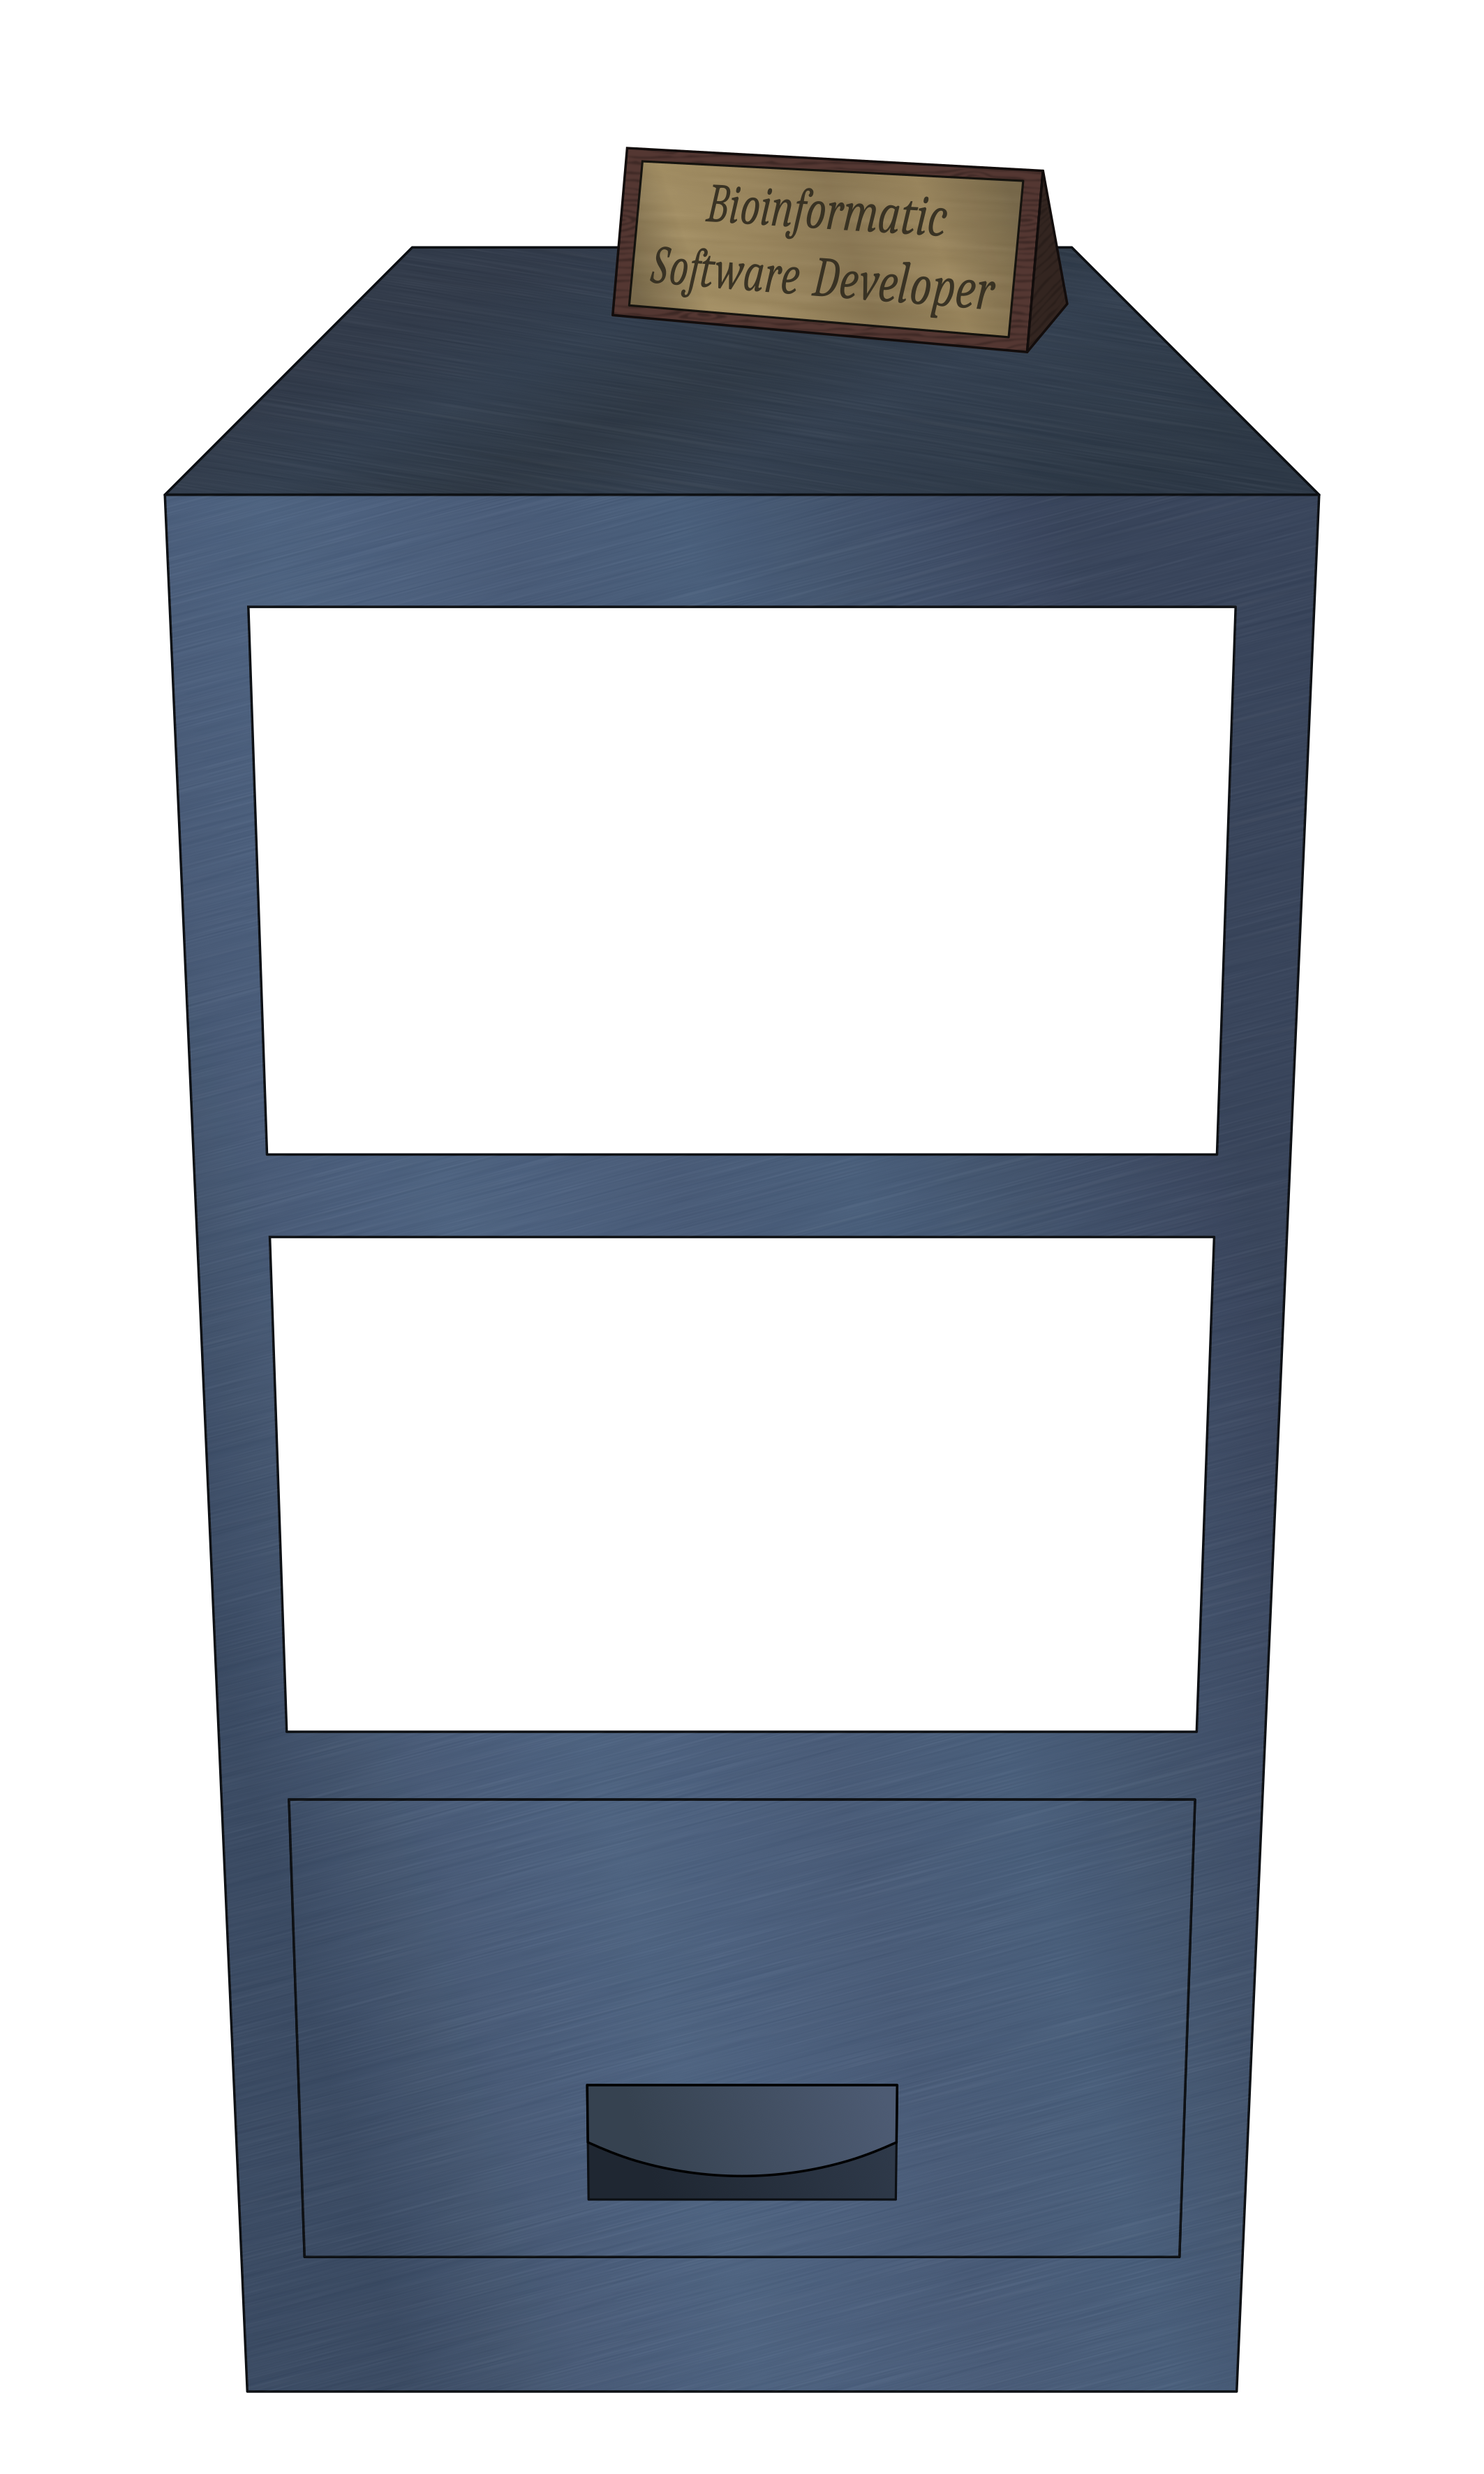
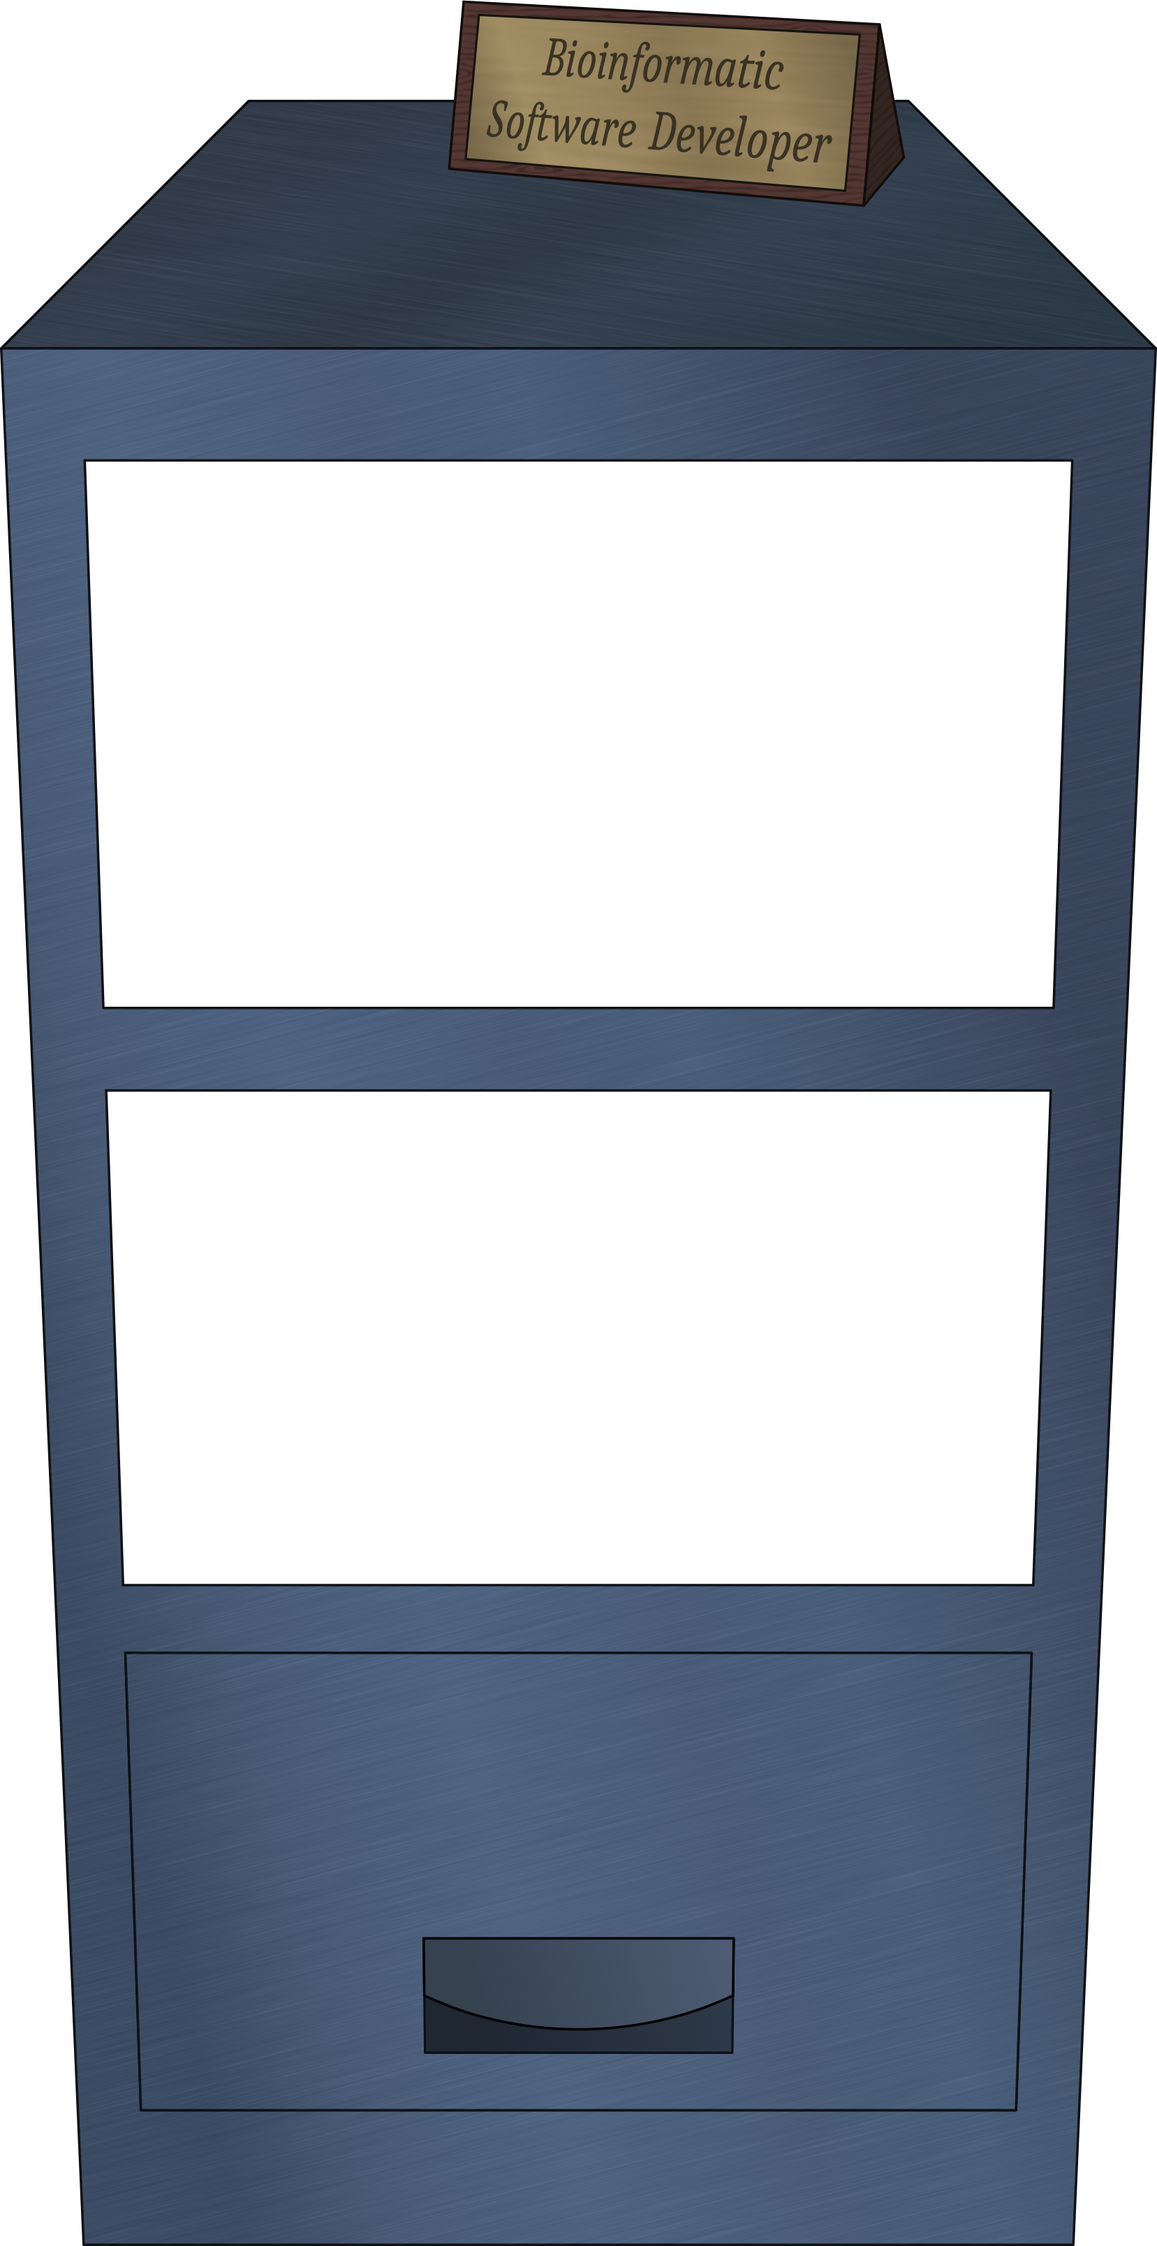
style: complete basic layout style: add responsive behavior
asset: refine image asset

diff --git a/css/styles.css b/css/styles.css
@@ -73,31 +73,32 @@ body {
 /* BACKGROUND IMAGES */
 
 html {
-    width: 100%;
+    width: 100vw;
+    overflow-x: hidden;
 }
 
 body {
     background:
-        radial-gradient(transparent, 60%, #130D0C77 80%, #130D0C99 100%) no-repeat,
+        radial-gradient(ellipse 60% 50%, transparent 65%, #130D0C55 95%, #130D0C77 100%) no-repeat,
         url(../src/background_large.png) no-repeat center / cover;
         background-color: #9C655D;
     width: 100%;
     min-height: 100vh;
     display: block flow-root;
+    position: relative;
 }
 
-.section-home {
+.section-home-container {
     background: url(../src/certificate_large.png) no-repeat center / contain;
     aspect-ratio: 1539/1034;
-    min-width: 25rem;
-    max-width: 95%;
-    width: 50vw;
+    width: 40vw;
+    max-width: 80rem;
     position: relative;
     margin: 10vh auto 0;
     filter: drop-shadow(0 0 5px #130D0C);
 }
 
-.section-home__wrapper {
+.section-home {
     position: absolute;
     inset: 15% 10%;
     text-align: center;
@@ -105,10 +106,10 @@ body {
 
 .filing-cabinet {
     position: relative;
-    aspect-ratio: 2126/3543;
-    width: 70vw;
-    min-width: 30rem;
-    top: -10vh;
+    aspect-ratio: 1657/3217;
+    max-width: 80rem;
+    width: 40vw;
+    top: -2vh;
     margin: 0 auto;
 }
 
@@ -123,7 +124,6 @@ body {
 .filing-cabinet__back {
     background-image: url(../src/fcabinet_slots_large.png);
 }
-
 
 .filing-cabinet__front {
     background-image: url(../src/fcabinet_structure_large.png);
@@ -145,14 +145,85 @@ body {
 
 /* UI ELEMENTS */
 
-.options {
-    background-image: url(../src/sheet_large.png);
-    height: 200px;
+.nav-container {
+    background: url(../src/postit_large.png) no-repeat center / contain;
+    aspect-ratio: 1021/1109;
+    height: 45vh;
+    position: fixed;
+    top: -5vh;
+    left: 2vw;
+    transform: rotate(4deg);
+    z-index: 10;
+    filter: drop-shadow(0 0 5px #130D0C);
 }
 
-.nav {
-    background-image: url(../src/postit_large.png);
-    height: 100px;
+.options-container {
+    background: url(../src/sheet_large.png) no-repeat center / contain;
+    display: block flow-root;
+    aspect-ratio: 1106/655;
+    height: 25vh;
+    position: fixed;
+    bottom: -2vh;
+    left: 2vw;
+    transform: rotate(-2deg);
+    z-index: 10;
+    filter: drop-shadow(0 0 5px #130D0C);
+}
+
+.viewport-overlay-gradient {
+    background: linear-gradient(#130D0C88, 2%, transparent 10% 90%, 98%, #130D0C88);
+    position: fixed;
+    inset: 0 0 0 0;
+}
+
+.footer-overlay-gradient {
+    background: linear-gradient(transparent, #130D0C 70%);
+    height: 70vh;
+    max-height: 30%;
+    width: 100vw;
+    position: absolute;
+    bottom: 0;
+}
+
+/* STRUCTURE MEDIA QUERIES */
+
+@media (orientation: portrait) and (max-width: 1200px) {
+    .section-home-container {
+        width: 90vw;
+        margin-top: 20vh;
+    }
+    .filing-cabinet {
+        width: 95vw;
+        top: -1vh;
+    }
+    .nav-container {
+        height: 60vw;
+        /* height: 27vh; */
+        max-height: 30vh;
+        top: -4vh;
+        left: -30px;
+        transform: rotate(5deg);
+    }
+    .options-container {
+        height: clamp(25vw, 18vh, 30vw);
+        left: auto;
+        right: -2vw;
+        transform: rotateY(180deg) rotate(3deg);
+        & .options {
+            transform: rotatey(180deg);
+        }
+    }
+}
+
+@media (orientation: landscape) and (max-width:1400px) {
+    .section-home-container {
+        width: 50vw;
+        left: 15vw;
+    }
+    .filing-cabinet {
+        width: 50vw;
+        left: 15vw;
+    }
 }
 
 /****************************************
@@ -180,7 +251,7 @@ body {
     width: calc(665px/5);
     height: calc(396px/2);
     border: 5px solid red;
-    animation: 1.8s steps(1) infinite static-animation ;
+    animation: 1.8s steps(1) infinite static-animation;
 }
 
 .activator {

diff --git a/en/index.html b/en/index.html
@@ -54,9 +54,9 @@
     <meta name="twitter:url" content="" />
   </head>
   <body>
-    <!-- <header class="flower-font">
+    <header class="nav-container flower-font">
       <nav class="nav">
-        <menu class="nav-list">
+        <!-- <menu class="nav-list">
           <li class="nav-item">
             <a href="#home" class="nav-anchor">Home</a>
           </li>
@@ -72,15 +72,17 @@
           <li class="nav-item">
             <a href="#contact" class="nav-anchor">Contact</a>
           </li>
-        </menu>
+        </menu> -->
       </nav>
     </header>
-    <aside class="options flower-font">
-      <a class="lang-selector">English</a>
-    </aside> -->
+    <aside class="options-container flower-font">
+      <div class="options">
+        <a class="lang-selector">English</a>
+      </div>
+    </aside>
     <main>
-      <article id="home" class="section-home pt-font">
-        <div class="section-home__wrapper">
+      <article id="home" class="section-home-container pt-font">
+        <div class="section-home">
           <!-- <header>
             <small>Certificate of Science and Software</small>
             <hgroup>
@@ -322,19 +324,25 @@
           </div>
         </section>
       </details> -->
-      <div class="filing-cabinet" aria-hidden="true">
-        <div class="filing-cabinet__back">
+      <div class="scene" aria-hidden="true">  
+        <div class="filing-cabinet">
+          <div class="filing-cabinet__back">
+          </div>
+          <div class="filing-cabinet__front">
+          </div>
+          <div class="filing-cabinet__drawer-1">
+          </div>
+          <div class="filing-cabinet__drawer-2">
+          </div>
         </div>
-        <div class="filing-cabinet__front">
+        <div class="viewport-overlay-gradient">
         </div>
-        <div class="filing-cabinet__drawer-1">
-        </div>
-        <div class="filing-cabinet__drawer-2">
+        <div class="footer-overlay-gradient">
         </div>
       </div>
     </main>
-    <!-- <footer>
-      <menu class="social-media-list">
+    <footer>
+      <!-- <menu class="social-media-list">
         <li class="social-media-item">
           <a href="https://github.com/" class="social-media-anchor">GitHub</a>
         </li>
@@ -346,7 +354,7 @@
         <li class="social-media-item">
           <a href="" class="social-media-cv">CV</a>
         </li>
-      </menu>
-    </footer> -->
+      </menu> -->
+    </footer>
   </body>
 </html>
